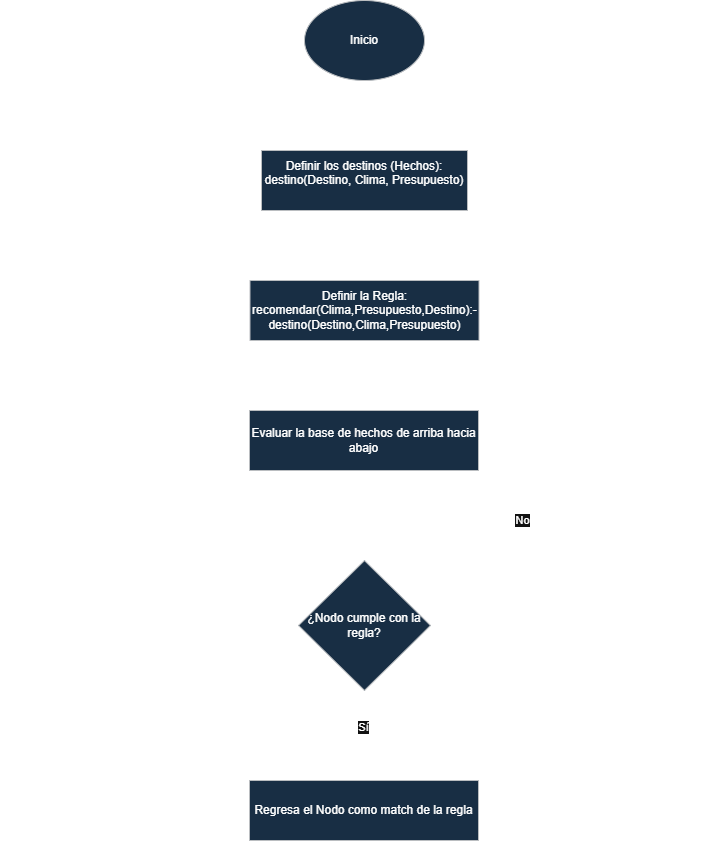
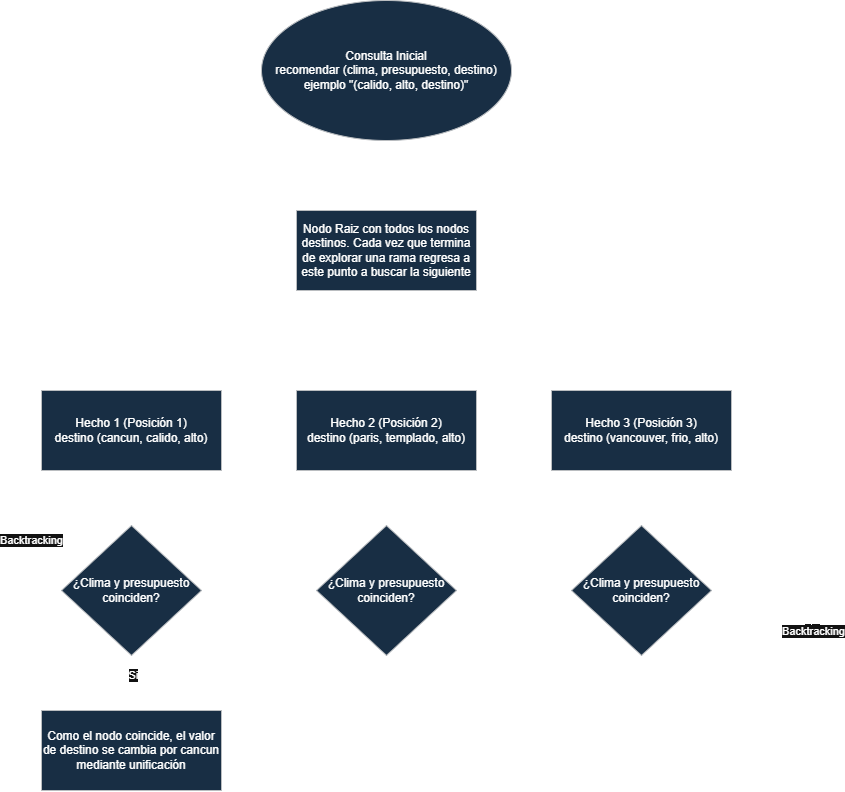
Cambios finales

diff --git a/README.md b/README.md
@@ -1,5 +1,5 @@
 # TC2037_Analizador_Destinos
-## Descripión y Contexto
+## Descripción y Contexto
 ### ----------Definición del Proyecto----------
 El proyecto consiste en el diseño y la implementación de un Motor de Busqueda de Destinos Turísticos. A partir de las restricciones del usuario, definidas por variables categóricas de Clima (frio, calido, templado) y Presupuesto (alto, medio, bajo). el motor evalua un universo y discrimnia cuáles pueden adaptarse al perfil solicitado.
 
@@ -13,19 +13,19 @@ Este proyecto es interesante porque demuestra cómo los paradigmas declarativos 
 #### **Diagrama Base del proyecto**
 
 ## Modelos y Arquitectura
-### ----------Arquitectura del Paradgima Lógigo (Solución en Prolog)----------
+### ----------Arquitectura del Paradigma Lógigo (Solución en Prolog)----------
 La solución lógica se modela abstrayendo el problema en una relación. No se crea un algortimo de búsqueda, se describen los datos y sus interconexiones:
-1. Base de Conocimientos (Hechos): Estructura lineal que contiele los destinos con sus propiedades atómicas: destino(Destino, Clima, Presupuesto).
-2. Motor de Inferencia (Reglas): Predicados abtractos que operan mediante unificación.
+1. Base de Conocimientos (Hechos): Estructura lineal que contiene los destinos con sus propiedades atómicas: destino(Destino, Clima, Presupuesto).
+2. Motor de Inferencia (Reglas): Predicados abstractos que operan mediante unificación.
 
-El modelo de ejecución se rige por un Árbol de Resolución por Búsqueda en Profundidad (DFS). Cuando el usuario realiza una consulta con variables libtes, el motor de Prolog recorre el árbol de arriba hacia abajo intetnando ligar los términos. Si una rama no satisface el predicado, el lenguaje ejecuta un proceso de Backtracking regresando al nodo de elección anterior para buscar la siguiente alternativa.
+El modelo de ejecución se rige por un Árbol de Resolución por Búsqueda en Profundidad (DFS). Cuando el usuario realiza una consulta con variables libres, el motor de Prolog recorre el árbol de arriba hacia abajo intentando ligar los términos. Si una rama no satisface el predicado, el lenguaje ejecuta un proceso de Backtracking regresando al nodo de elección anterior para buscar la siguiente alternativa.
 
 ![Texto alternativo](/imagenes_apoyo/Diagrama_logico.png)
 
 #### **Diagrama de la Implementación del Paradignma Lógico**
 
 
-### ----------Arquitectura del Paradgima Funcional (Solución en Racket)----------
+### ----------Arquitectura del Paradigma Funcional (Solución en Racket)----------
 - Estructura de Datos: El universo se modela como una lista inmutable de listas.
 - Control de flujo: Se elimina el uso de ciclos y se utiliza Recursión de Cabeza.
 - Operadores: La arquitectura del programa descompone la lista utilizando first (para extraer y evaluar la cabeza de la lista) y rest (para aislar el resto de la lista y pasarla a la siguiente llamada recursiva). La reconstrucción de la lista filtrada con las coincidencias exitosas se realiza en la pila de retorno con el apoyo de un constructor puramente funcional.
@@ -61,9 +61,9 @@ El comportamiento temporal de Prolog se deriva de la resolución sobre un árbol
 Bauer detalla que los esquemas de emparejamiento sintáctico basados en retroceso (backtracking) sufren de penalizaciones temporales multiplicativas al cruzar múltiples metas independientes con variables libres. La complejidad matemática se define como: $O(N*M)$. Donde N es el número de hechos y M representa la cantidad de restricciones en la regla.
 
 ### Conclusión de Viabilidad
-- Factibilidad en Mantenimiento y Diseño, El paradgima lógico es sumamente viable para sistemas con reglas dinámicas. Permite que con la misma regla, se puedan hacer consultas no solo de cual es el Destino que cumple con mi Clima y Presupuesto, Podemos buscar Destinos para un clima o ver las caractéristicas de un Destino. 
+- Factibilidad en Mantenimiento y Diseño, El paradigma lógico es sumamente viable para sistemas con reglas dinámicas. Permite que con la misma regla, se puedan hacer consultas no solo de cual es el Destino que cumple con mi Clima y Presupuesto, Podemos buscar Destinos para un clima o ver las caractéristicas de un Destino. 
 En Racket esto es inviable; al ser funciones puras, los parámetros de entrada estan fijos y se requeriría agregar algoritmos complementarios para invertir el sentido de la consulta.
-- Factbilidad en Rendimiento y Estabilidad, Si el volumen de datos escalara de forma masiva, el enfoque funcional es superior. Su complejidad lineal es completamente determinista y predecible, lo que lo hace inmune a bucles infinitos o explosiones, cosas que el backtracking de Prolog puede provocar si los árboles de decisión crecen sin un control de cortes.
+- Factibilidad en Rendimiento y Estabilidad, Si el volumen de datos escalara de forma masiva, el enfoque funcional es superior. Su complejidad lineal es completamente determinista y predecible, lo que lo hace inmune a bucles infinitos o explosiones, cosas que el backtracking de Prolog puede provocar si los árboles de decisión crecen sin un control de cortes.
 
 Como se puede ver se considera que ambas soluciones tienen sus puntos fuertes como sus desventajas, es por esto que se decidio implementar ambas propuestas en el proyecto. Para este caso el más factible es el diseño lógico, aunque el diseño funcional no se queda tan atrás, tiene sus ventajas cuando el enfoque es la escalabilidad y estabilidad, pero para el tamaño de proyecto que se implemento esto no afecta.
 
